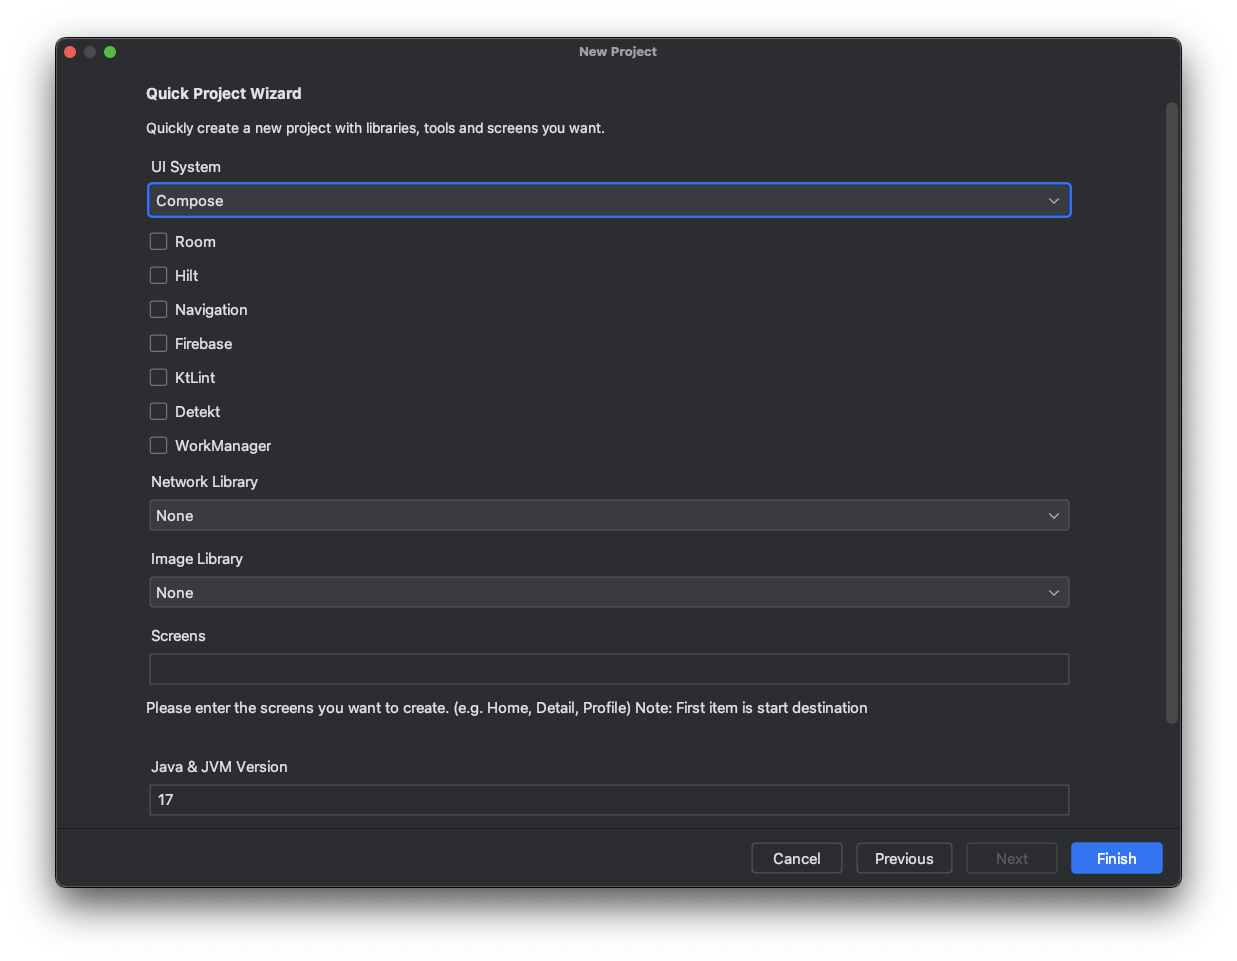
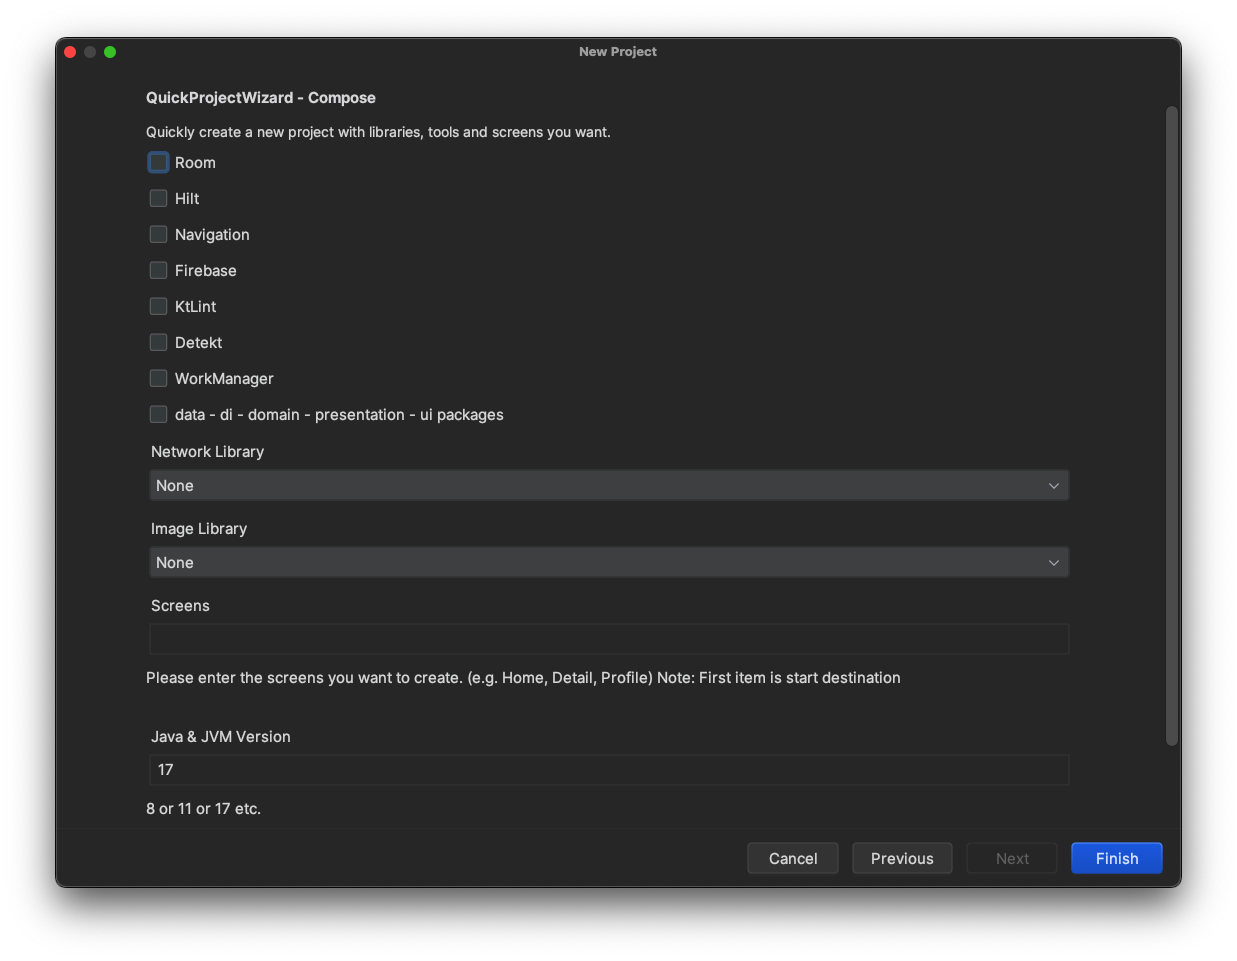
refactor README.md and images, fix bugs

diff --git a/src/main/kotlin/com/github/cnrture/quickprojectwizard/cmparch/CommonFileGenerator.kt b/src/main/kotlin/com/github/cnrture/quickprojectwizard/cmparch/CommonFileGenerator.kt
@@ -52,6 +52,10 @@ class CommonFileGenerator(
                         "composeApp/build.gradle.kts",
                         ftManager.getCodeTemplate(Template.COMPOSE_GRADLE_KTS)
                     ),
+                    GeneratorTemplateFile(
+                        "composeApp/src/commonMain/kotlin/$packageName/common/CollectExtension.kt",
+                        ftManager.getCodeTemplate(Template.COLLECT_EXTENSION)
+                    ),
                 )
             )
 

diff --git a/src/main/kotlin/com/github/cnrture/quickprojectwizard/recipes/ComposeProjectRecipe.kt b/src/main/kotlin/com/github/cnrture/quickprojectwizard/recipes/ComposeProjectRecipe.kt
@@ -96,7 +96,7 @@ fun RecipeExecutor.composeProjectRecipe(
 
     if (dataDiDomainPresentationUiPackages) {
         if (isHiltEnable) {
-            addSrcFile(emptyMainApplication(packagePath, projectName), moduleData, "MainApplication.kt")
+            addSrcFile(emptyMainApplication(packagePath, projectName), moduleData, "MainApp.kt")
         }
 
         addSrcFile(emptyConstants(packagePath), moduleData, "common/Constants.kt")

diff --git a/src/main/kotlin/com/github/cnrture/quickprojectwizard/recipes/XMLProjectRecipe.kt b/src/main/kotlin/com/github/cnrture/quickprojectwizard/recipes/XMLProjectRecipe.kt
@@ -80,7 +80,7 @@ fun RecipeExecutor.xmlProjectRecipe(
 
     if (dataDiDomainPresentationUiPackages) {
         if (isHiltEnable) {
-            addSrcFile(emptyMainApplication(packagePath, projectName), moduleData, "MainApplication.kt")
+            addSrcFile(emptyMainApplication(packagePath, projectName), moduleData, "MainApp.kt")
         }
 
         addSrcFile(emptyConstants(packagePath), moduleData, "common/Constants.kt")

diff --git a/src/main/kotlin/com/github/cnrture/quickprojectwizard/general/EmptyManifestXml.kt b/src/main/kotlin/com/github/cnrture/quickprojectwizard/general/EmptyManifestXml.kt
@@ -20,7 +20,7 @@ fun hilt(styleName: String, projectName: String) = """
     <uses-permission android:name="android.permission.INTERNET" />
 
     <application
-        android:name=".${projectName}Application"
+        android:name=".MainApp"
         android:allowBackup="true"
         android:dataExtractionRules="@xml/data_extraction_rules"
         android:fullBackupContent="@xml/backup_rules"

diff --git a/src/main/kotlin/com/github/cnrture/quickprojectwizard/composearch/ui/components/EmptyLoadingBar.kt b/src/main/kotlin/com/github/cnrture/quickprojectwizard/composearch/ui/components/EmptyLoadingBar.kt
@@ -9,9 +9,7 @@ import androidx.compose.material3.CircularProgressIndicator
 import androidx.compose.runtime.Composable
 import androidx.compose.ui.Alignment
 import androidx.compose.ui.Modifier
-import androidx.compose.ui.tooling.preview.Preview
 
-@Preview
 @Composable
 fun LoadingBar() {
     Box(

diff --git a/src/main/kotlin/com/github/cnrture/quickprojectwizard/cmparch/Template.kt b/src/main/kotlin/com/github/cnrture/quickprojectwizard/cmparch/Template.kt
@@ -38,4 +38,5 @@ object Template {
     const val EMPTY_SCREEN = "empty_screen.kt"
     const val LOADING_BAR = "loading_bar.kt"
     const val IDEA_WORKSPACE = "idea_workspace.xml"
+    const val COLLECT_EXTENSION = "collect_extension.kt"
 }

diff --git a/src/main/kotlin/com/github/cnrture/quickprojectwizard/general/EmptyMainApplication.kt b/src/main/kotlin/com/github/cnrture/quickprojectwizard/general/EmptyMainApplication.kt
@@ -7,5 +7,5 @@ import android.app.Application
 import dagger.hilt.android.HiltAndroidApp
 
 @HiltAndroidApp
-class ${projectName}Application: Application()
+class MainApp: Application()
 """.trimIndent()

diff --git a/README.md b/README.md
@@ -32,34 +32,59 @@
   Download the [latest release](https://github.com/cnrture/QuickProjectWizard/releases/latest) and install it manually using
   <kbd>Settings/Preferences</kbd> > <kbd>Plugins</kbd> > <kbd>⚙</kbd> > <kbd>Install plugin from disk...</kbd>
 
-## Usage
+# Usage
 
-### 1. Create a new project
+## 1. Create a new project
 
+### Compose and XML
 <img src="images/new_project.png" alt="New Project">
+
+### Compose Multiplatform
+<img src="images/new_project_cmp.png" alt="New Project">
 
 - Open your Android Studio.
 - Click New Project.
 - Select Quick Project Wizard and click Next.
 </br></br>
 
-### 2. Configure your project
+## 2. Configure your project
 
+### Compose and XML
 <img src="images/details.png" alt="Quick Project Wizard Page">
+
+### Compose Multiplatform
+<img src="images/details_cmp.png" alt="New Project">
 
 - Select the libraries, dependencies and screens you want to include in your project (for example, Retrofit, Room, Hilt, etc.).
 - Customize versions and additional configurations.
 - After all selections have been made, click Finish.
 </br></br>
 
-### 3. Finalize and start coding
+## 3. Finalize and start coding
 
+### Compose and XML
 <img src="images/final.png" alt="Quick Project Wizard Page">
+
+### Compose Multiplatform
+<img src="images/final_cmp.png" alt="New Project">
 
 - Review the generated project structure to ensure all necessary dependencies and configurations are correctly applied.
 - Start coding your new project with all the essential tools and libraries already integrated.
 - Congratulations! You have successfully installed and configured the Quick Project Wizard plugin. Your new Android project is now set up with the latest and most essential dependencies, making your development process more efficient and streamlined.
 
+## 4. Configure edit configurations (Just Compose Multiplatform)
+
+<img src="images/edit_configurations.png" alt="Quick Project Wizard Page">
+
+- Open edit configurations.
+
+<img src="images/desktopApp_configuration.png" alt="Quick Project Wizard Page">
+
+- Write your composeApp path instead of "\${PROJECT_DIR}\$" (like : ~/Documents/GitHub/CMPApp/composeApp)
+
+<img src="images/iosApp_configuration.png" alt="Quick Project Wizard Page">
+
+- Select Apple device from Execution Target.
 ---
 Plugin based on the [IntelliJ Platform Plugin Template][template].
 
